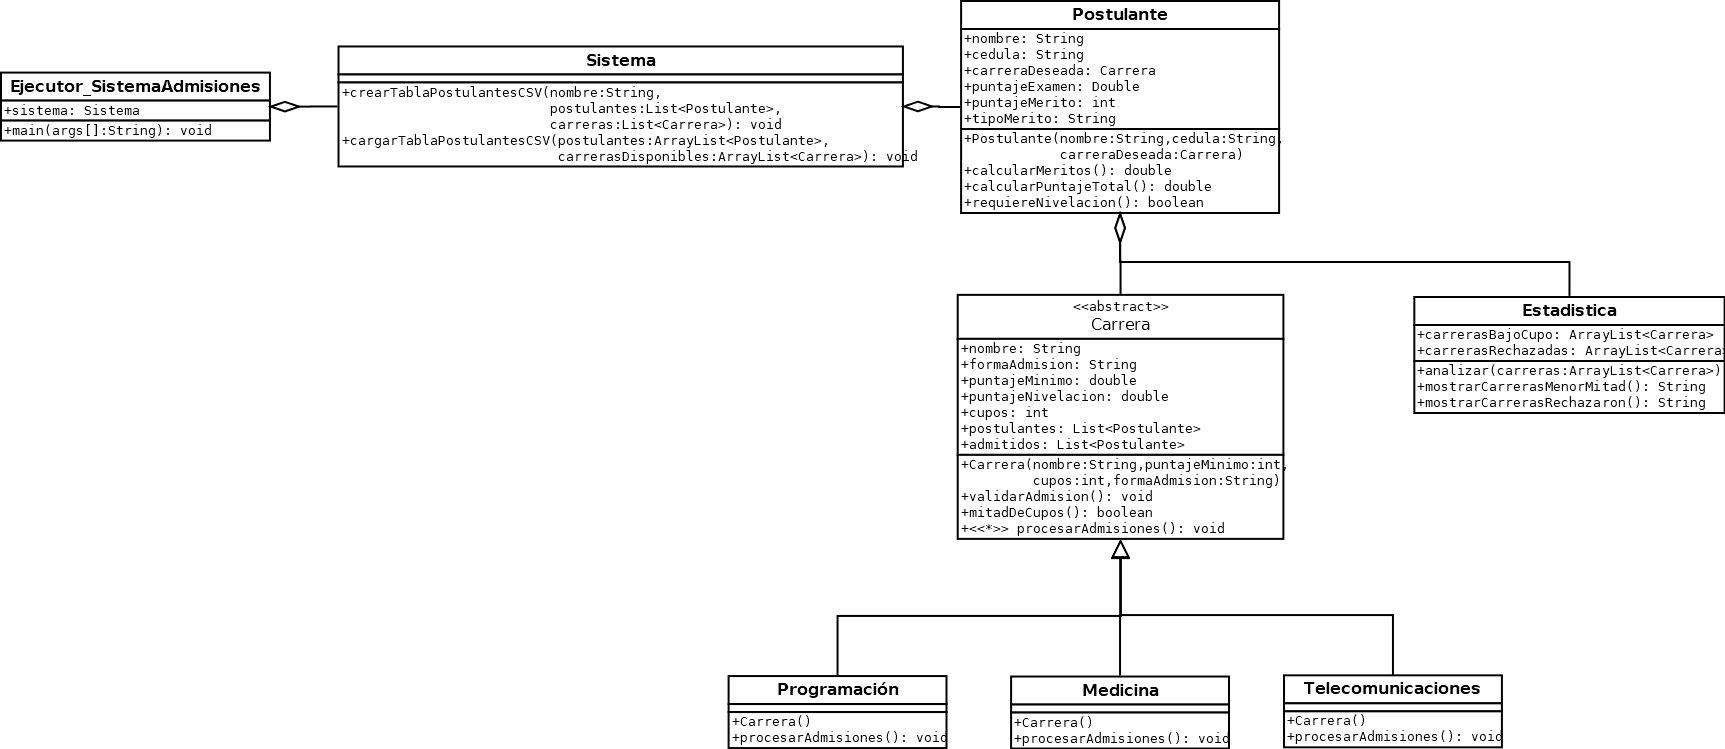
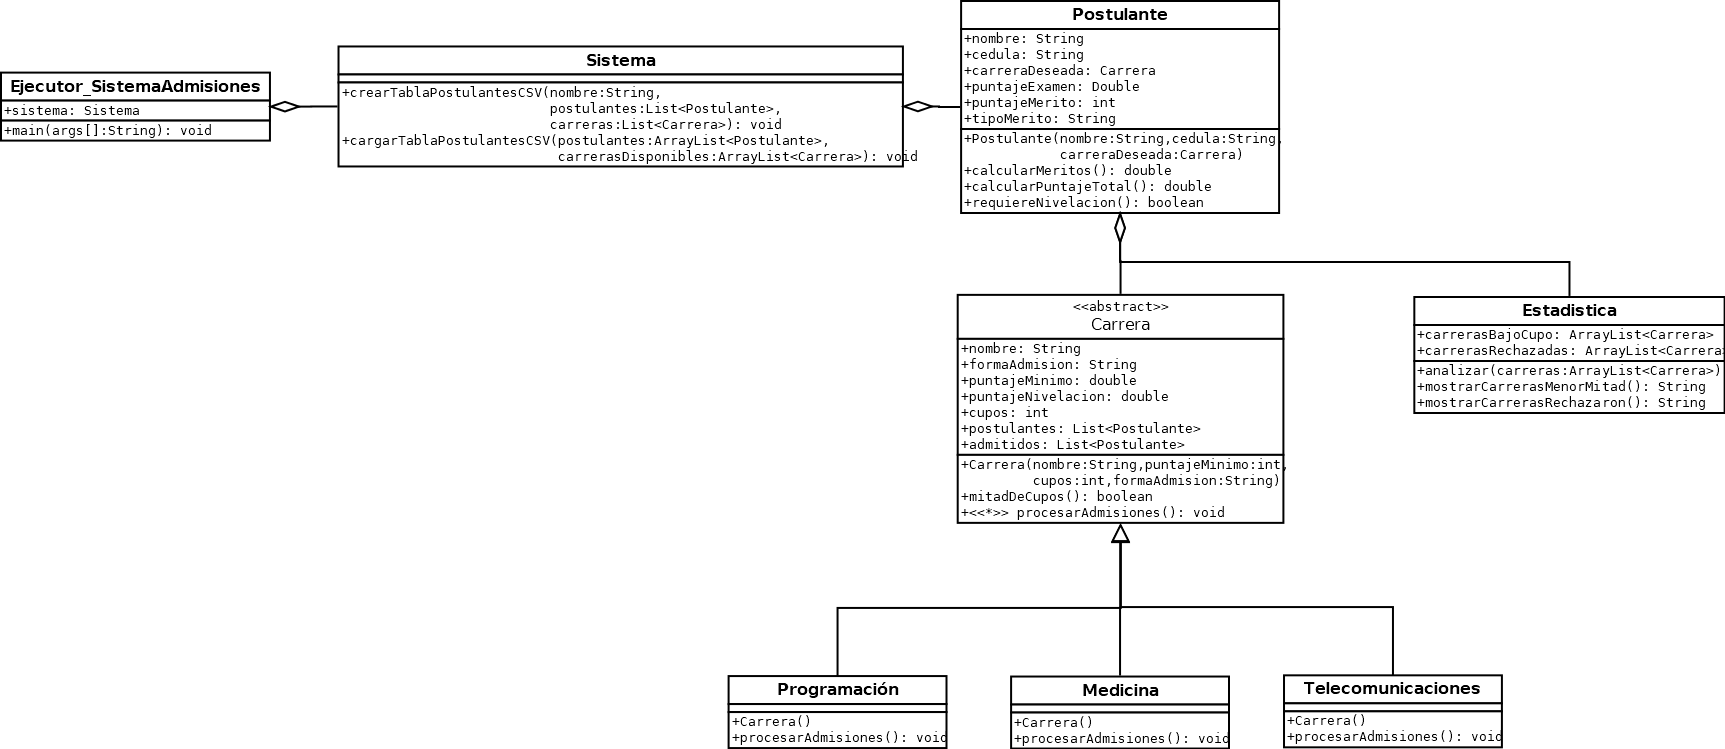
actualizacion

Changed region(s): [[0.553, 0.6449, 0.7374, 0.737], [0.4916, 0.7984, 0.7988, 0.8291]]

diff --git a/Solucion_Codigo/Poo_Proyecto_B2/src/main/java/POO_Proyecto_B2/Ejecutor_SistemaAdmisiones.java b/Solucion_Codigo/Poo_Proyecto_B2/src/main/java/POO_Proyecto_B2/Ejecutor_SistemaAdmisiones.java
@@ -8,31 +8,41 @@ public class Ejecutor_SistemaAdmisiones {
     public static void main(String[] args) {
         Sistema sistema = new Sistema();
         Scanner in = new Scanner(System.in);
-        
+
         System.out.println("Ingrese la cantidad de estudiantes: ");
         int limite = in.nextInt();
+        Carrera programacion = new Programacion();
+        Carrera medicina = new Medicina();
+        Carrera telecomunicaciones = new Telecomunicaciones();
+
         List<Carrera> carreras = new ArrayList<>();
-        carreras.add(new Programacion());
-        carreras.add(new Medicina());
-        carreras.add(new Telecomunicaciones());
+        carreras.add(programacion);
+        carreras.add(medicina);
+        carreras.add(telecomunicaciones);
         List<Postulante> postulantes = new ArrayList<>();
-        
+
         for (int i = 0; i < limite; i++) {
             System.out.println("ingrese el nombre del estudiante ");
             String nombre = in.next();
             System.out.println("ingrese su cedula: ");
             String cedula = in.next();
-            Carrera carreraDeseada;
-            System.out.println("ingrese la carrera a la que desea ingresar: ");
-            if ("Medicina".equalsIgnoreCase(in.next())) {
-                carreraDeseada = new Medicina();
-            }
-            else 
-                if("Programacion".equalsIgnoreCase(in.next())) {
-                carreraDeseada = new Programacion();
+            Carrera carreraDeseada = null;
+            int sel;
+            do {
+                System.out.println("A que carrera desea ingresar?\n [1] Medicina \n [2] Programacion \n [3] Telecomunicaciones \n [0] salir");
+                sel = in.nextInt();
+                switch (sel) {
+                    case 1 ->
+                        carreraDeseada = medicina;
+                    case 2 ->
+                        carreraDeseada = programacion;
+                    case 3 ->
+                        carreraDeseada = telecomunicaciones;
+                    default ->
+                        System.out.println("");
                 }
-                else
-                carreraDeseada = new Telecomunicaciones();
+            } while (sel != 0);
+
             System.out.println("Ingrese su puntaje del examen: ");
             double puntajeExamen = in.nextDouble();
             System.out.println("Ingrese su tipo de merito: ");
@@ -43,21 +53,22 @@ public class Ejecutor_SistemaAdmisiones {
             e.requiereNivelacion();
             postulantes.add(e);
         }
-        
-        System.out.println("--Menu--");
-        System.out.println("[1] Crear archivo postulantes.csv y enviar informacion");
-        System.out.println("[2] Cargar desde archivo");
-        System.out.println("[0] Finalizar");
-        int sel = in.nextInt();
-        while (sel != 0) {
+        int sel;
+        do {
+            System.out.println("--Menu--");
+            System.out.println("[1] Crear archivo postulantes.csv y enviar informacion");
+            System.out.println("[2] Cargar desde archivo");
+            System.out.println("[0] Finalizar");
+            sel = in.nextInt();
             switch (sel) {
-                case 1 -> {
+                case 1 ->
                     sistema.crearTablaPostulantesCSV("postulantes.csv", postulantes, carreras);
-                }
-
-                case 2 -> sistema.cargarPostulantesDesdeCSV("postulantes.csv", postulantes, carreras);
+                case 2 ->
+                    sistema.cargarPostulantesDesdeCSV("postulantes.csv", postulantes, carreras);
+                default ->
+                    System.out.println("");
             }
-        }
+        } while (sel != 0);
 
         for (Carrera carrera : carreras) {
             carrera.procesarAdmisiones();

diff --git a/Solucion_Codigo/Poo_Proyecto_B2/src/main/java/POO_Proyecto_B2/Postulante.java b/Solucion_Codigo/Poo_Proyecto_B2/src/main/java/POO_Proyecto_B2/Postulante.java
@@ -7,6 +7,9 @@ public class Postulante {
     Carrera carreraDeseada;
     double puntajeExamen;
     String tipoMerito;
+    double merito;
+    double puntTot;
+    boolean niv;
 
     public Postulante(String nombre, String cedula, Carrera carreraDeseada, double puntajeExamen, String tipoMerito) {
         this.nombre = nombre;
@@ -16,7 +19,7 @@ public class Postulante {
         this.tipoMerito = tipoMerito;
     }
 
-    public double calcularMeritos() {
+    public void calcularMeritos() {
         double adicional = 0;
         if (tipoMerito.equalsIgnoreCase("Abanderado")) {
             adicional += 5;
@@ -25,14 +28,14 @@ public class Postulante {
         } else if (tipoMerito.equalsIgnoreCase("Capacidad especial")) {
             adicional += 3;
         }
-        return adicional;
+        this.merito += adicional;
     }
 
-    public double calcularPuntajeTotal() {
-        return puntajeExamen + calcularMeritos();
+    public void calcularPuntajeTotal() {
+        this.puntTot = puntajeExamen + this.merito;
     }
 
-    public boolean requiereNivelacion() {
-        return carreraDeseada.tipoAdmision.equalsIgnoreCase("DIAGNOSTICO") && puntajeExamen < carreraDeseada.puntajeNivelacion;
+    public void requiereNivelacion() {
+        this.niv = carreraDeseada.tipoAdmision.equalsIgnoreCase("DIAGNOSTICO") && puntajeExamen < carreraDeseada.puntajeNivelacion;
     }
 }

diff --git a/Solucion_Codigo/Poo_Proyecto_B2/src/main/java/POO_Proyecto_B2/Carrera.java b/Solucion_Codigo/Poo_Proyecto_B2/src/main/java/POO_Proyecto_B2/Carrera.java
@@ -14,11 +14,7 @@ public abstract class Carrera {
     List<Postulante> admitidos = new ArrayList<>();
 
     public void validarAdmision() {
-        if(tipoAdmision.equalsIgnoreCase("ADMISION"))
-            postulantes.removeIf(p -> p.calcularPuntajeTotal() < puntajeMinimo);
-        postulantes.sort((p1, p2) -> Double.compare(p2.calcularPuntajeTotal(), p1.calcularPuntajeTotal()));
-        for (int i = 0; i < Math.min(cupos, postulantes.size()); i++)
-            admitidos.add(postulantes.get(i));
+        
     }
 
     public boolean mitadDeCupos() {

diff --git a/Solucion_Codigo/Poo_Proyecto_B2/src/main/java/POO_Proyecto_B2/Estadistica.java b/Solucion_Codigo/Poo_Proyecto_B2/src/main/java/POO_Proyecto_B2/Estadistica.java
@@ -20,13 +20,13 @@ public class Estadistica {
     }
 
     public String mostrarCarrerasMenorMitad() {
-        String salida = null;
+        String salida = "";
         for (Carrera c : carrerasBajoCupo)
              salida += ("- " + c.nombre);
         return salida;
     }
     public String mostrarCarrerasRechazaron() {
-        String salida = null; 
+        String salida = ""; 
         for (Carrera c : carrerasRechazadas) 
             salida += ("- " + c.nombre);
         return salida;

diff --git a/Solucion_Codigo/Poo_Proyecto_B2/src/main/java/POO_Proyecto_B2/Programacion.java b/Solucion_Codigo/Poo_Proyecto_B2/src/main/java/POO_Proyecto_B2/Programacion.java
@@ -8,6 +8,11 @@ public class Programacion extends Carrera {
 
     @Override
     public void procesarAdmisiones() {
-        validarAdmision();
+        if(tipoAdmision.equalsIgnoreCase("ADMISION")) {  
+            for (int i = 0; i < postulantes.size(); i++)
+                if (postulantes.get(i).puntTot > this.puntajeMinimo)
+                    admitidos.add(postulantes.get(i));   
+                else postulantes.remove(i);
+        }
     }
 }

diff --git a/Solucion_Codigo/Poo_Proyecto_B2/src/main/java/POO_Proyecto_B2/Medicina.java b/Solucion_Codigo/Poo_Proyecto_B2/src/main/java/POO_Proyecto_B2/Medicina.java
@@ -8,6 +8,11 @@ public class Medicina extends Carrera {
 
     @Override
     public void procesarAdmisiones() {
-        validarAdmision();
+        if(tipoAdmision.equalsIgnoreCase("ADMISION")) {
+            for (int i = 0; i < postulantes.size(); i++)
+                if (postulantes.get(i).puntTot > this.puntajeMinimo)
+                    admitidos.add(postulantes.get(i));   
+                else postulantes.remove(i);
+        }
     }
 }

diff --git a/Solucion_Codigo/Poo_Proyecto_B2/src/main/java/POO_Proyecto_B2/Telecomunicaciones.java b/Solucion_Codigo/Poo_Proyecto_B2/src/main/java/POO_Proyecto_B2/Telecomunicaciones.java
@@ -8,6 +8,10 @@ public class Telecomunicaciones extends Carrera {
 
     @Override
     public void procesarAdmisiones() {
-        validarAdmision();
-    }
+        for (int i = 0; i < postulantes.size(); i++)
+                if (postulantes.get(i).puntTot > this.puntajeMinimo) {
+                    admitidos.add(postulantes.get(i));
+                    admitidos.get(i).requiereNivelacion();
+                            }
+        } 
 }

diff --git a/Solucion_Codigo/Poo_Proyecto_B2/src/main/java/POO_Proyecto_B2/Sistema.java b/Solucion_Codigo/Poo_Proyecto_B2/src/main/java/POO_Proyecto_B2/Sistema.java
@@ -5,9 +5,7 @@ import java.io.FileReader;
 import java.io.FileWriter;
 import java.io.File;
 import java.io.IOException;
-import java.io.InputStream;
 import java.util.List;
-import java.util.UUID;
 
 public class Sistema {
  
